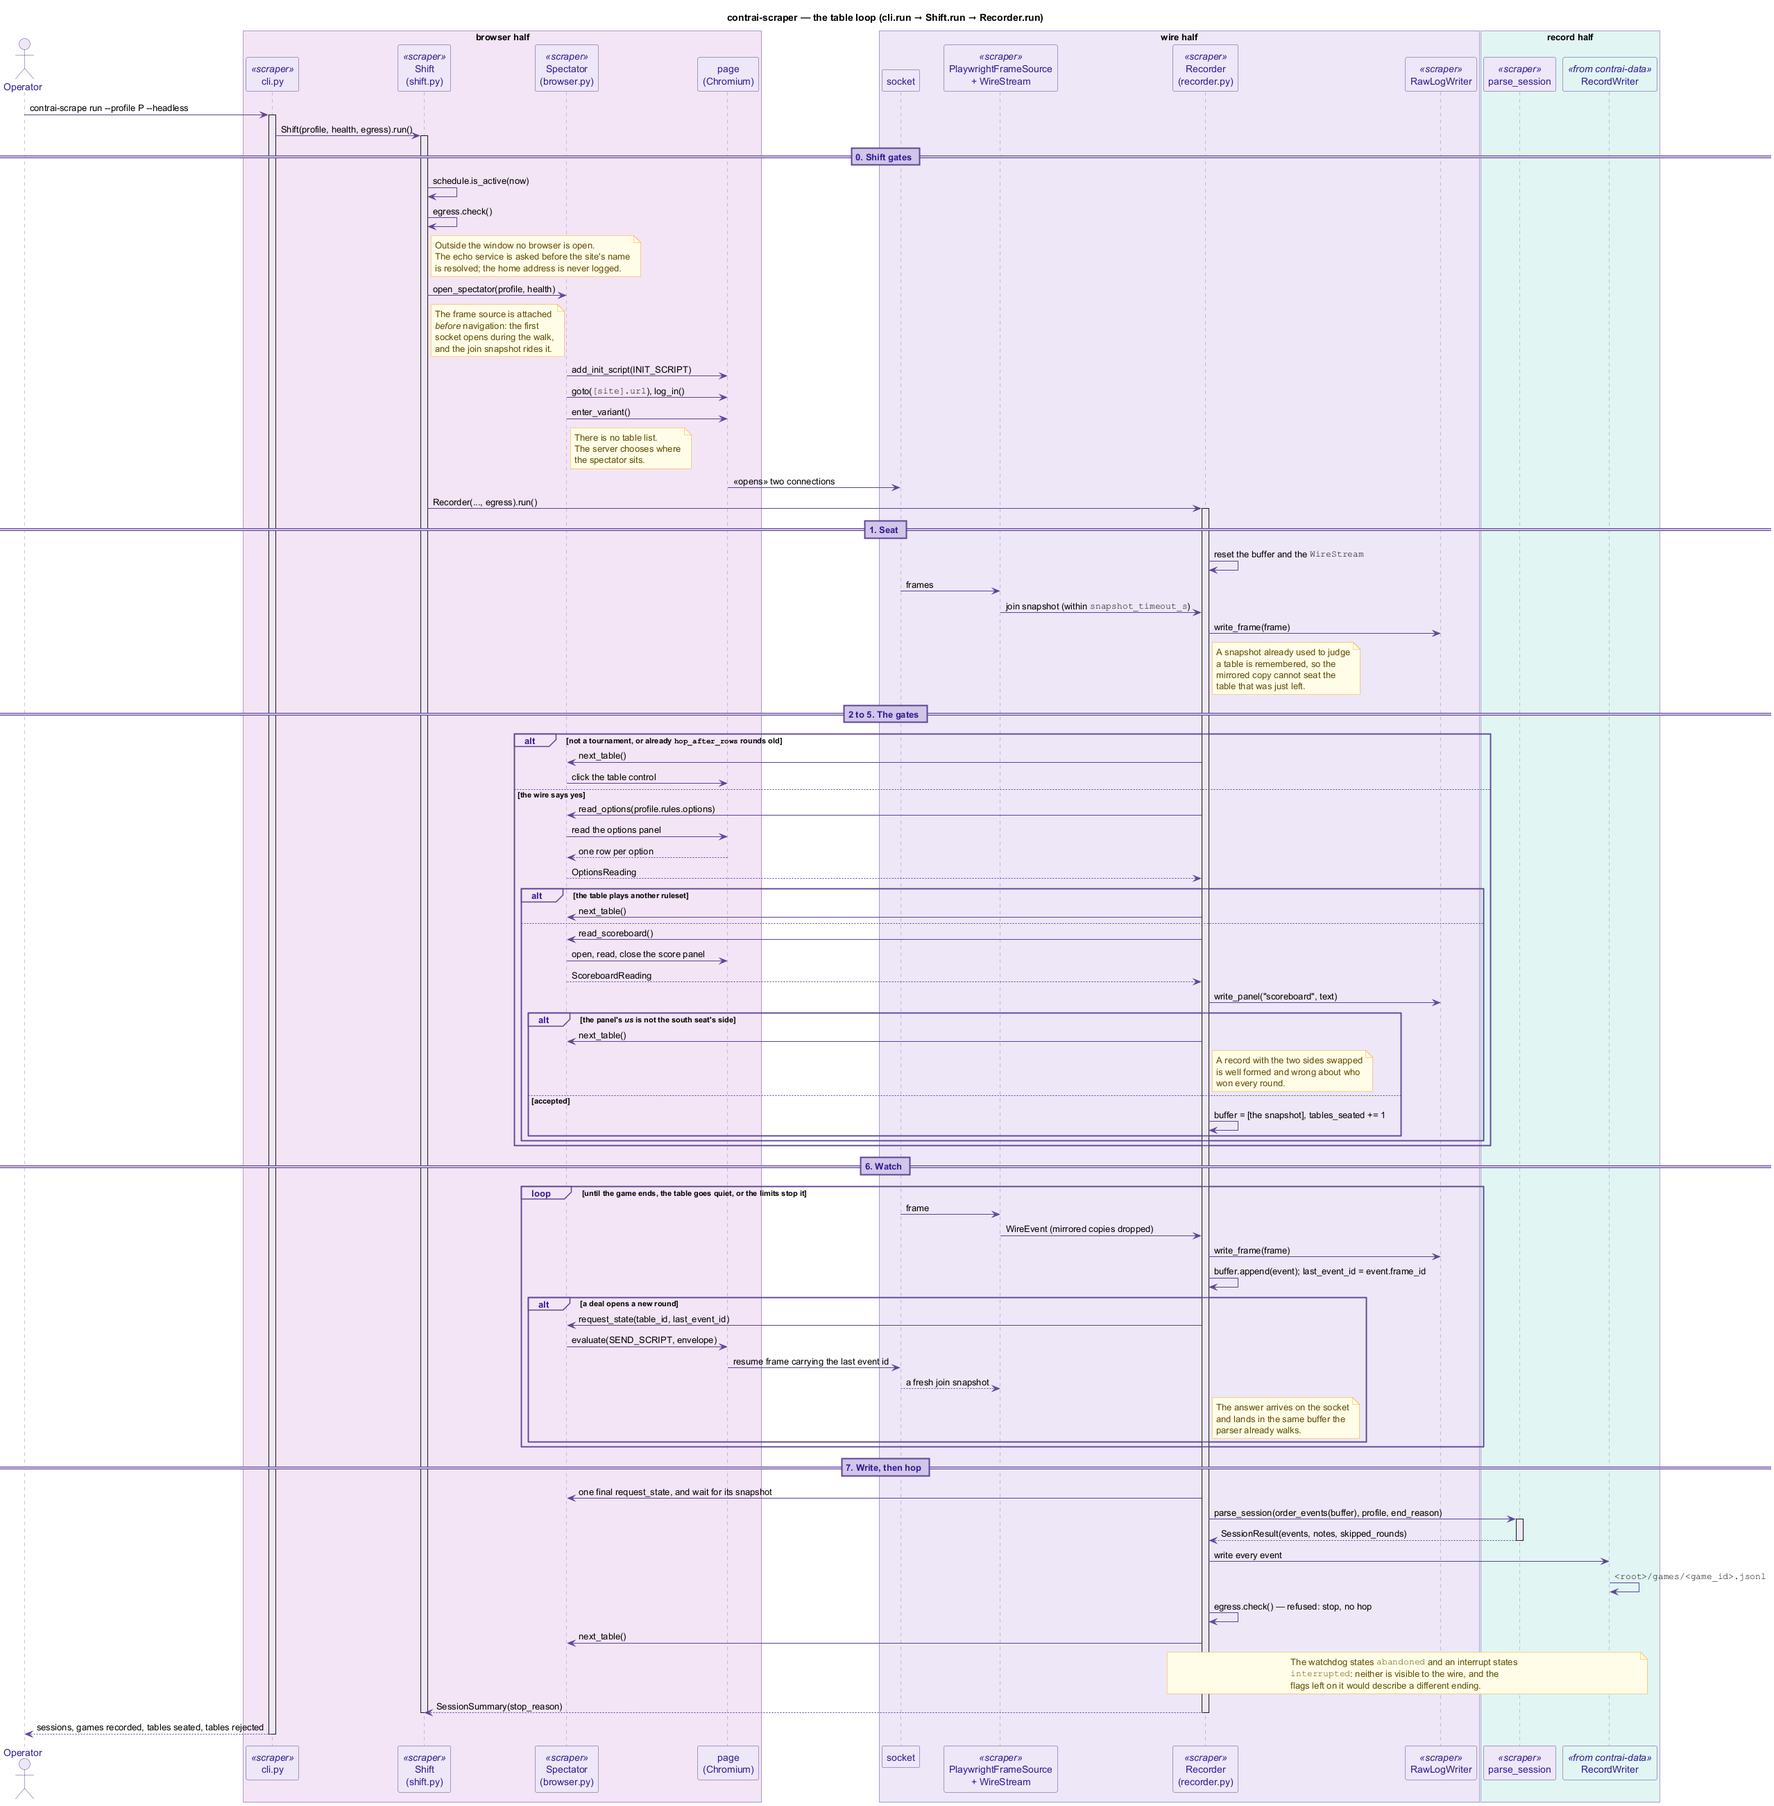
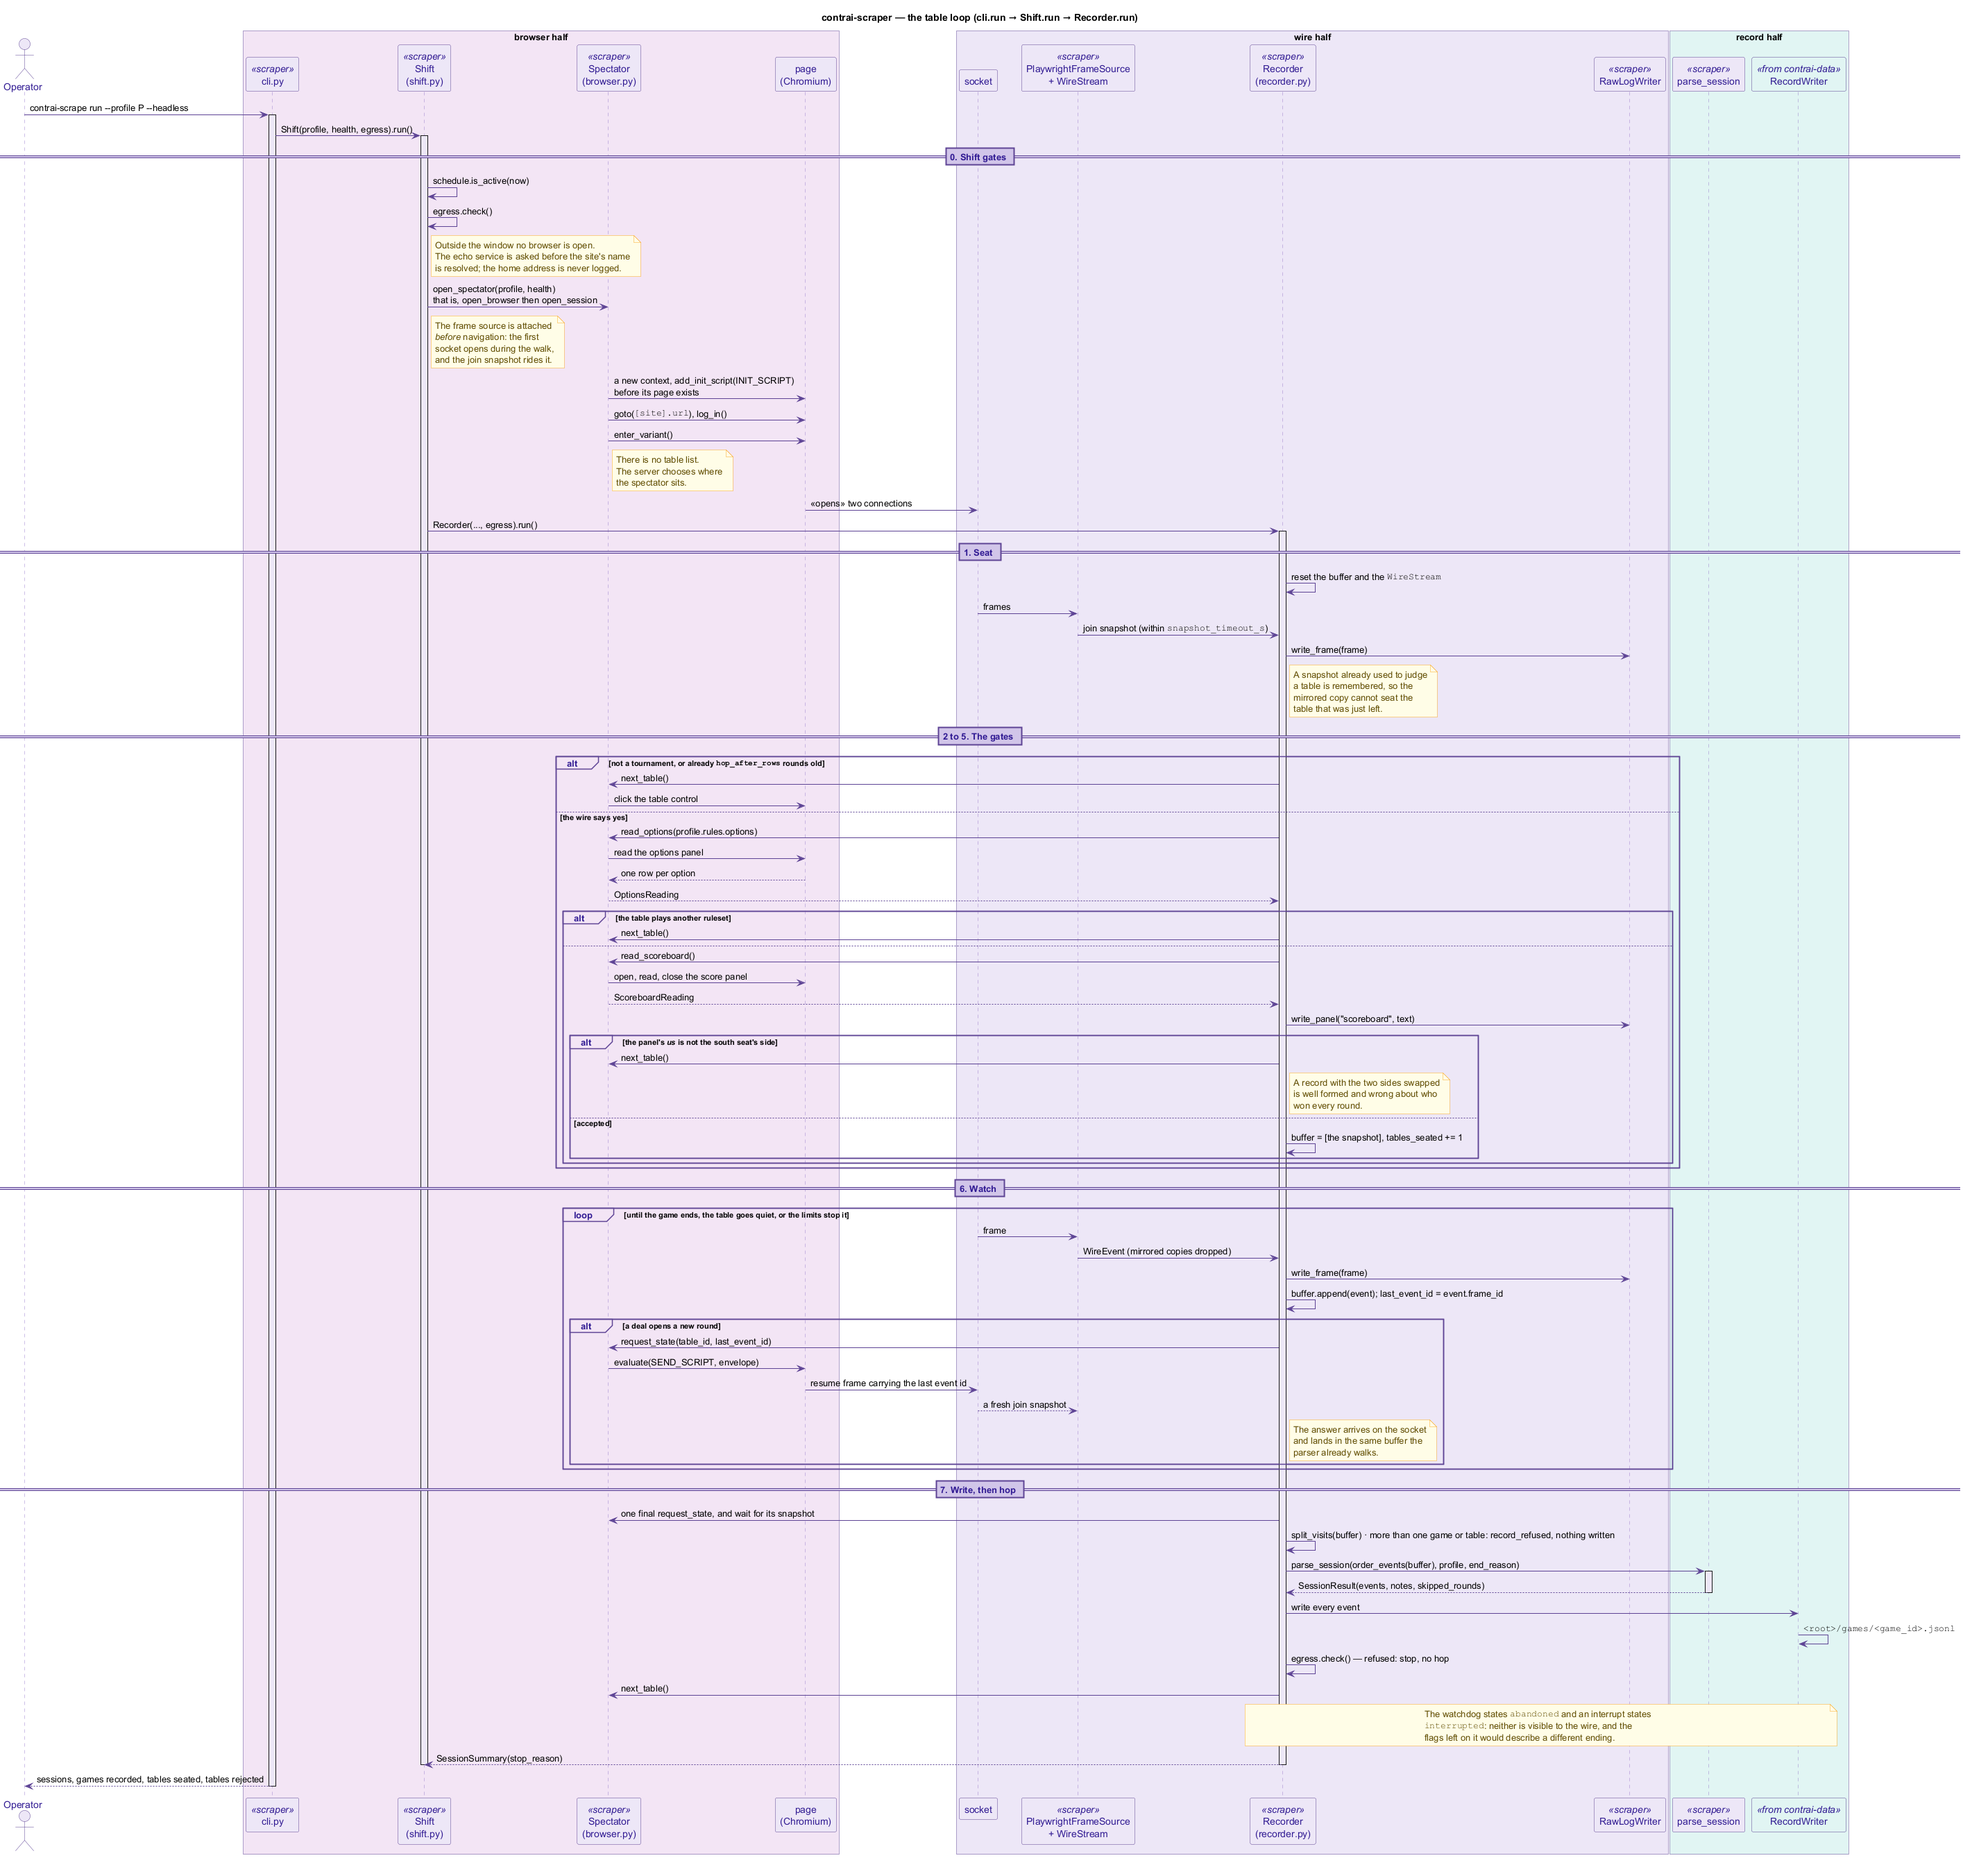
docs(scraper): document the fleet
Adds a Mermaid state diagram of a fleet worker's life and a PlantUML
sequence of one chase, lobby socket to written record, embedded in the
scraper docs beside an introduction to the two ways of watching. The
table-loop sequence is corrected for this branch: the socket script is
added to the context before its page exists, and the buffer is cut
before it is parsed.

diff --git a/docs/scraper/index.md b/docs/scraper/index.md
@@ -6,6 +6,11 @@ Playwright spectator-mode scraper for online Contrée games (auth required).
 JSONL file per game, the same format the engine writes, so a scraped game and a played one are
 read by the same code.
 
+Two ways to watch. `contrai-scrape run` is one account sitting wherever the server seats it, which
+is always a game already under way. `contrai-scrape fleet` is several accounts on one browser,
+waiting in the lobby and chasing each tournament game to its table from its first card — see
+[The lobby](#the-lobby) and [Fleets](#fleets).
+
 Site specifics — the target URL, the scraping account, every selector the browser clicks, every
 token the wire speaks — live in a local `profile.toml` that is never committed. Code and docs
 describe *what* each step does, not *where* it clicks; do not add the site's name, its DOM ids
@@ -460,6 +465,9 @@ the same egress gate (one shared `SharedEgressGate`, since every worker and ever
 same retention pruning — but inside an open window it launches one Chromium and opens a session per
 worker on it, logins staggered by `login_stagger_s`.
 
+```mermaid format="svg" source="state_scraper_worker.mmd"
+```
+
 Each worker loops on the same route. It logs in, walks to the lobby, reads the tournament row's
 hash, and waits there on the socket (`in_hall`) until `LobbyWatcher` announces a start. A roster
 older than `roster_max_age_s` when read is left alone (`roster_stale`); otherwise the worker claims
@@ -469,6 +477,13 @@ roster is released either way, and the worker walks back to the lobby. Idle work
 lobby, not at a table: a spectator left at a table after its game is sent back to the menu anyway,
 and a worker already in the lobby spends none of the few seconds before the first deal getting
 there.
+
+One chase, from the lobby's socket to a written record — the claim on the roster, the round trip
+out, the blind scan held against the roster, the table's own gates and the claim on the table, and
+the walk back:
+
+```plantuml format="svg" source="seq_scraper_chase.puml"
+```
 
 The walk back is the one route nothing has measured, so it fails fast, and a failure rebuilds the
 worker's session — a fresh context and a fresh login — logged as `return_rebuilt` and *not* counted

diff --git a/docs/diagrams/index.md b/docs/diagrams/index.md
@@ -166,4 +166,6 @@ Each row links to the canonical `.puml` source, the rendered `.png` preview, and
 | `state_cli_screens.mmd`| State    | RichView screen flow | [source](state_cli_screens.mmd)       | [png](state_cli_screens.png)         | [Engine — CLI](../engine/#cli)                             |
 | `flow_wire.mmd`        | Flowchart| Scraper wire pipeline| [source](flow_wire.mmd)               | [png](flow_wire.png)                 | [Scraper — pipeline](../scraper/#pipeline)                 |
 | `state_scraper_shift.mmd` | State | Scraper shift loop | [source](state_scraper_shift.mmd) | [png](state_scraper_shift.png) | [Scraper — shifts](../scraper/#shifts) |
+| `state_scraper_worker.mmd` | State | A fleet worker's life | [source](state_scraper_worker.mmd) | [png](state_scraper_worker.png) | [Scraper — fleets](../scraper/#fleets) |
+| `seq_scraper_chase.puml` | Sequence | One chase, lobby to record | [source](seq_scraper_chase.puml) | [png](seq_scraper_chase.png) | [Scraper — fleets](../scraper/#fleets) |
 | `deploy_scraper.mmd` | Deployment | Scraper on the homelab host | [source](deploy_scraper.mmd) | [png](deploy_scraper.png) | [Scraper — deployment](../scraper/#deployment) |
